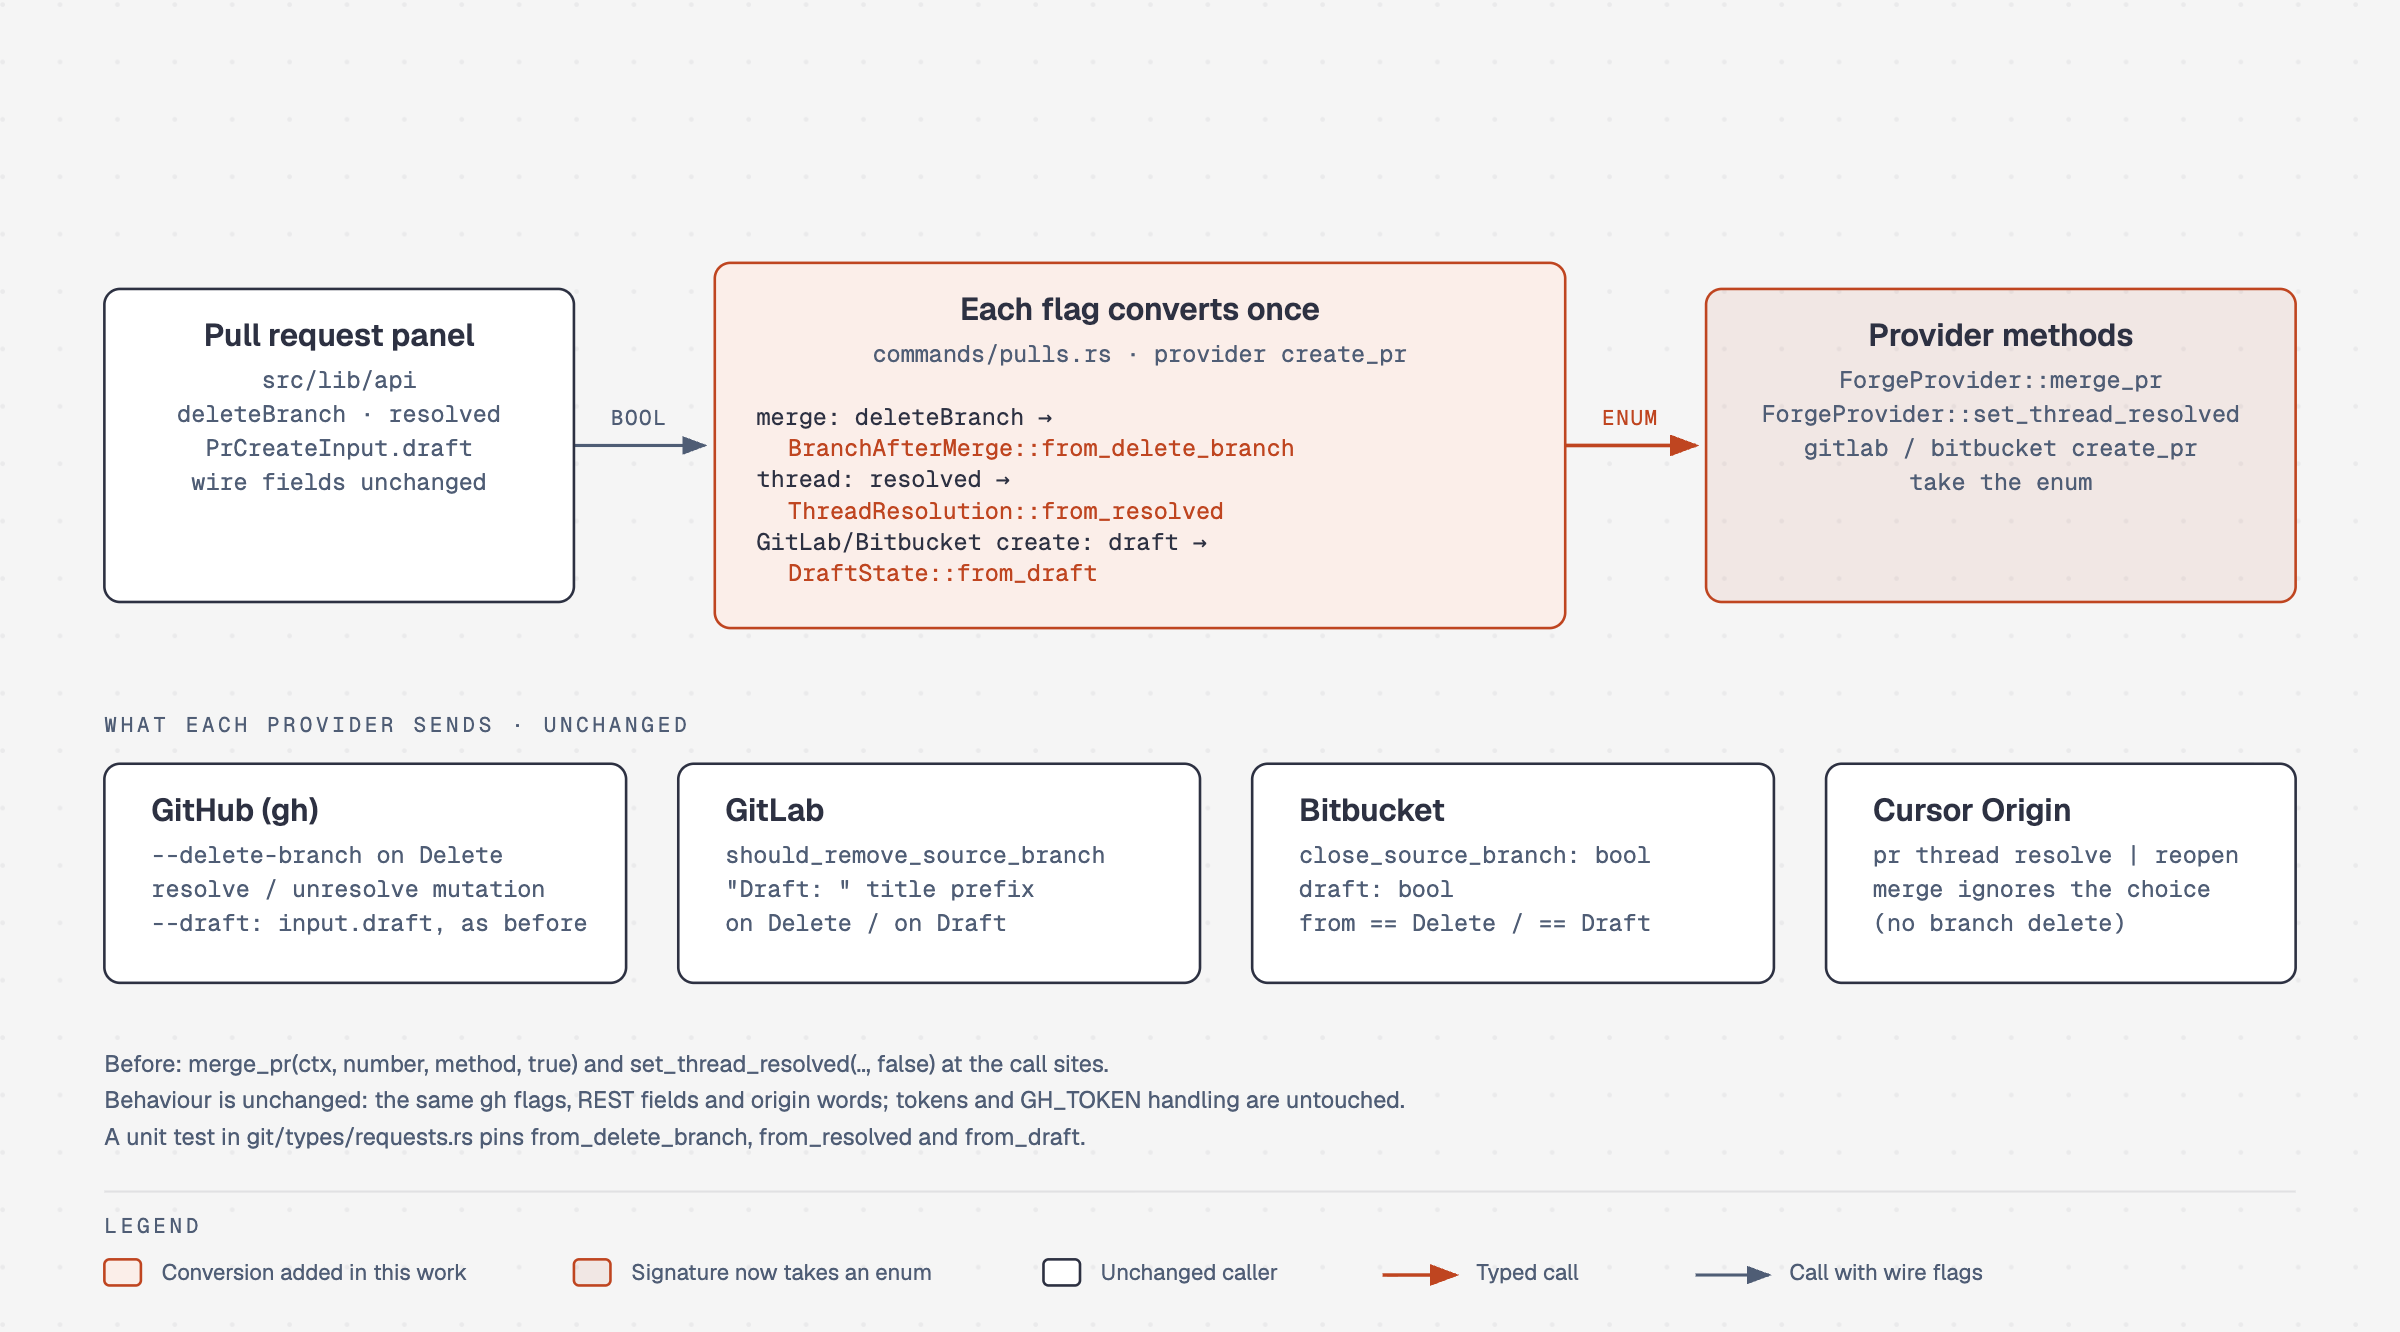
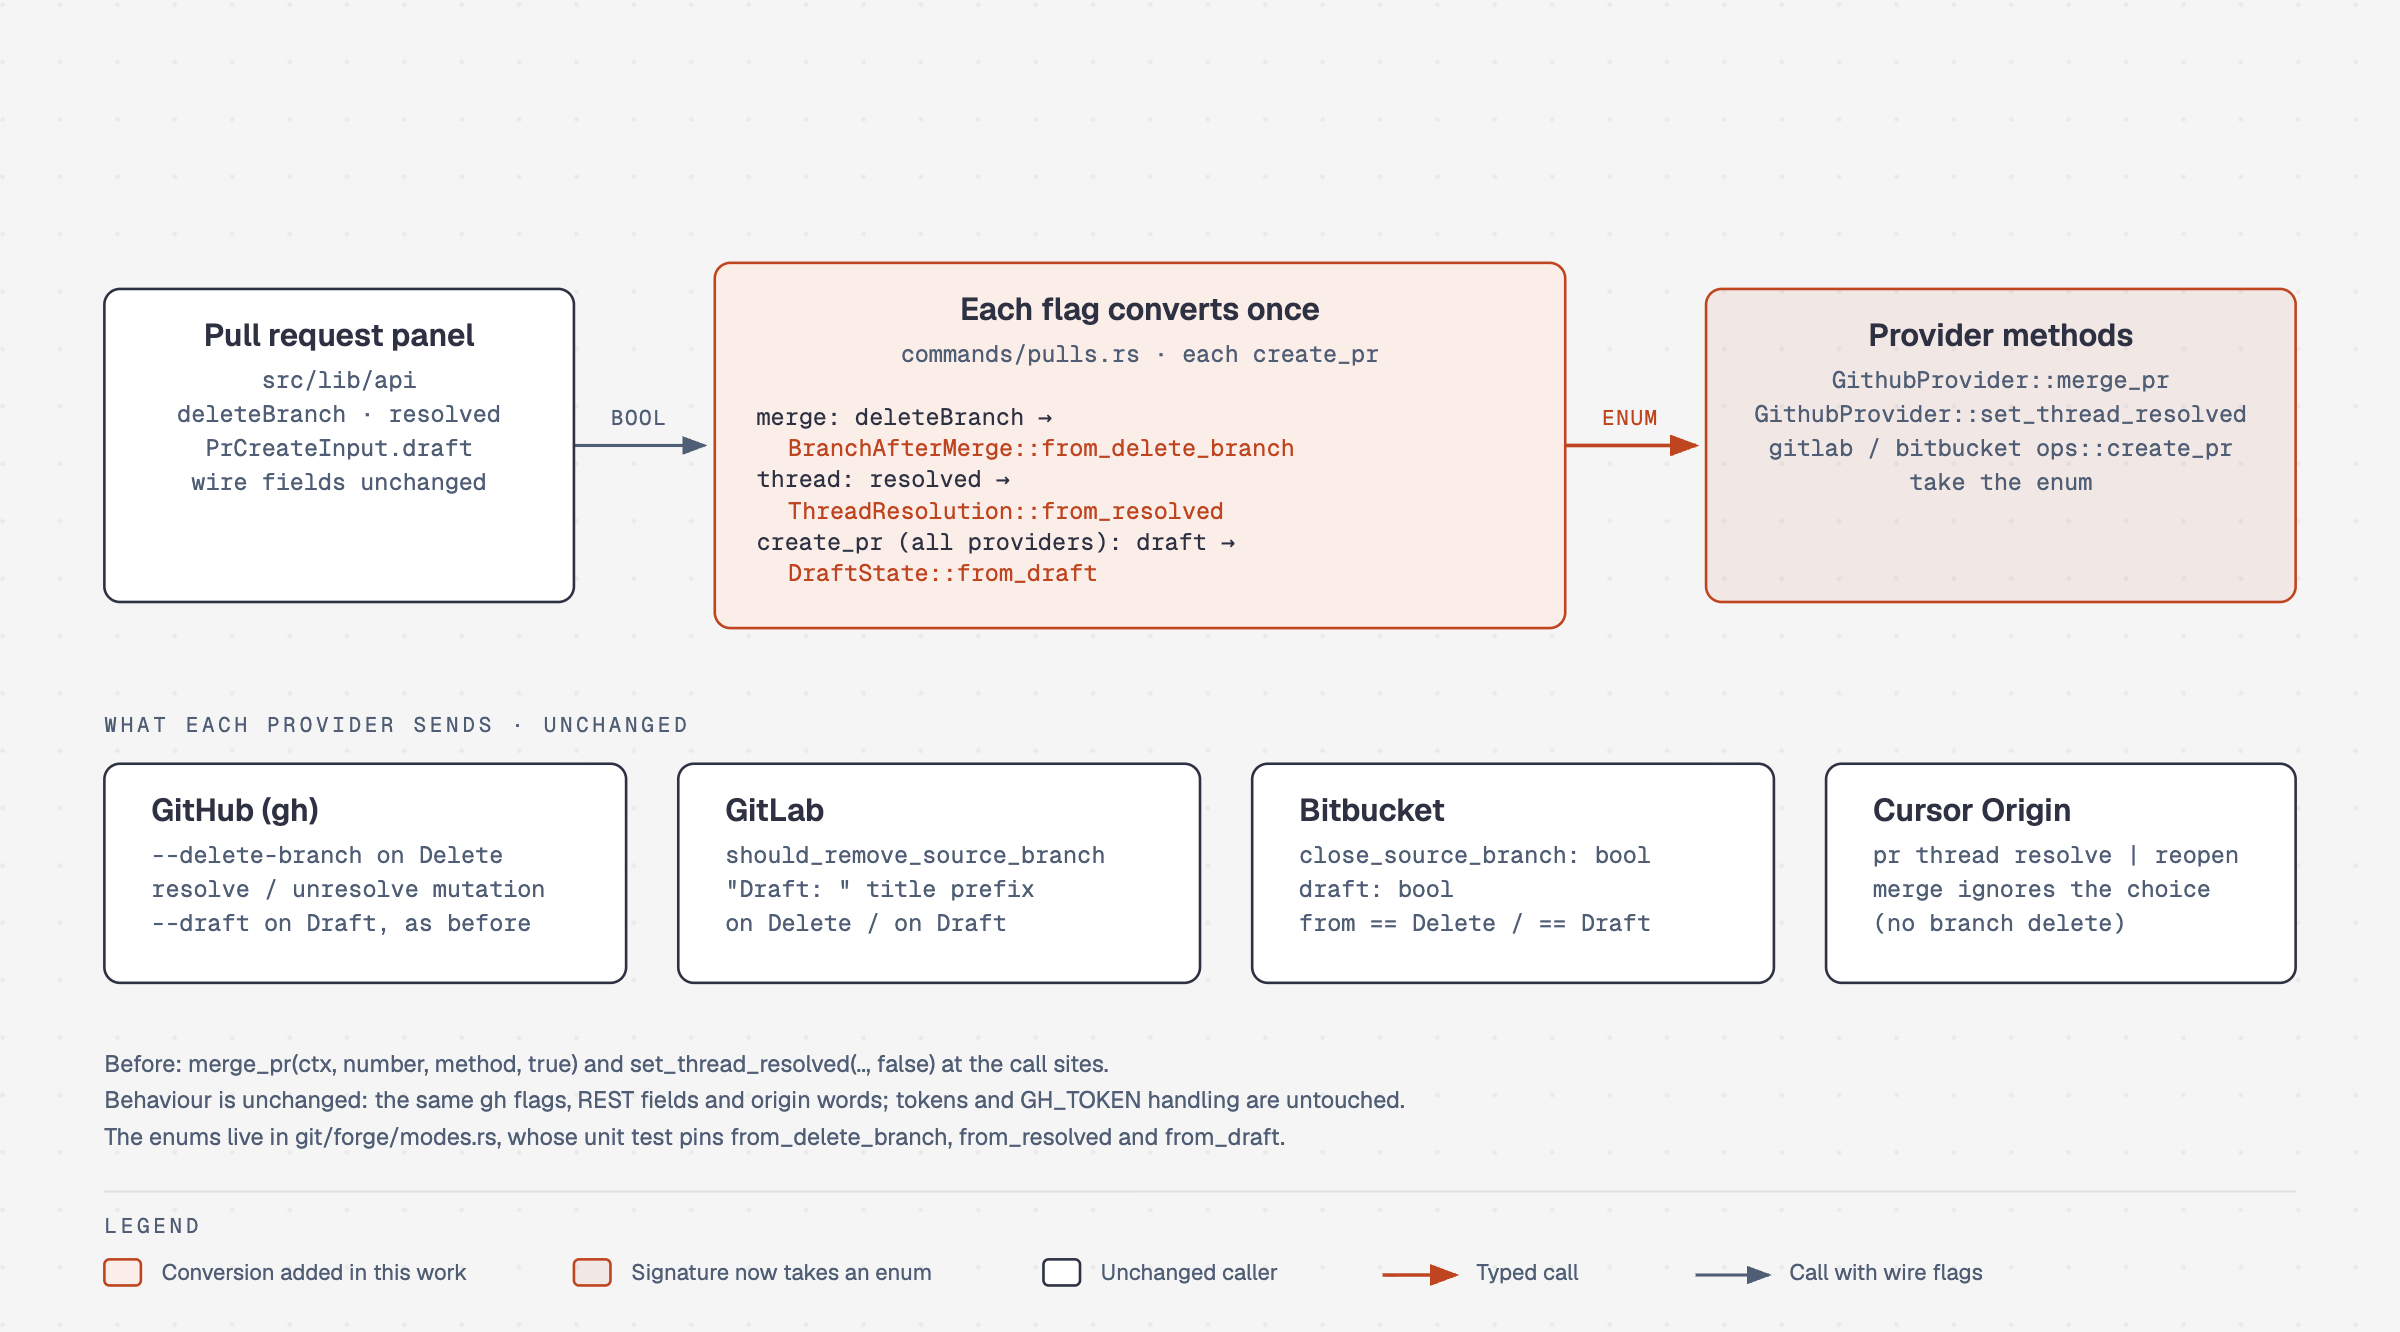
docs(diagrams): Show the forge mode enums in git::forge

diff --git a/docs/diagrams/rust-bool-modes-forge/forge-flag-enums.html b/docs/diagrams/rust-bool-modes-forge/forge-flag-enums.html
@@ -61,7 +61,7 @@
     <div class="diagram-container">
       <svg viewBox="0 0 920 510" xmlns="http://www.w3.org/2000/svg" role="img" aria-labelledby="forge-flag-enums-title forge-flag-enums-desc">
         <title id="forge-flag-enums-title">How the forge providers get their modes</title>
-        <desc id="forge-flag-enums-desc">The pull request panel still sends deleteBranch, resolved and PrCreateInput.draft. The merge and thread commands convert deleteBranch into BranchAfterMerge and resolved into ThreadResolution, and the GitLab and Bitbucket create paths convert draft into DraftState. The provider methods take the enums. What each provider sends is unchanged: gh's --delete-branch and resolve or unresolve mutation, GitLab's should_remove_source_branch and Draft title prefix, Bitbucket's close_source_branch and draft fields, and Cursor Origin's resolve or reopen, whose merge ignores the branch choice.</desc>
+        <desc id="forge-flag-enums-desc">The pull request panel still sends deleteBranch, resolved and PrCreateInput.draft. The merge and thread commands convert deleteBranch into BranchAfterMerge and resolved into ThreadResolution, and every provider's create path converts draft into DraftState. The provider methods take the enums. What each provider sends is unchanged: gh's --delete-branch and resolve or unresolve mutation, GitLab's should_remove_source_branch and Draft title prefix, Bitbucket's close_source_branch and draft fields, and Cursor Origin's resolve or reopen, whose merge ignores the branch choice.</desc>
         <defs>
           <pattern id="dots" width="22" height="22" patternUnits="userSpaceOnUse">
             <circle cx="1" cy="1" r="0.9" fill="rgba(45,49,66,0.10)"/>
@@ -86,25 +86,25 @@
         <text x="130" y="187" fill="#4f5d75" font-size="9" font-family="'Geist Mono', monospace" text-anchor="middle">wire fields unchanged</text>
         <rect x="274" y="100" width="326" height="140" rx="6" fill="#fbeee9" stroke="#bf4520" stroke-width="1"/>
         <text x="437" y="122" fill="#2d3142" font-size="12" font-weight="600" font-family="'Geist', sans-serif" text-anchor="middle">Each flag converts once</text>
-        <text x="437" y="138" fill="#4f5d75" font-size="9" font-family="'Geist Mono', monospace" text-anchor="middle">commands/pulls.rs · provider create_pr</text>
+        <text x="437" y="138" fill="#4f5d75" font-size="9" font-family="'Geist Mono', monospace" text-anchor="middle">commands/pulls.rs · each create_pr</text>
         <text x="290" y="162" fill="#2d3142" font-size="9" font-family="'Geist Mono', monospace">merge: deleteBranch →</text>
         <text x="302" y="174" fill="#bf4520" font-size="9" font-family="'Geist Mono', monospace">BranchAfterMerge::from_delete_branch</text>
         <text x="290" y="186" fill="#2d3142" font-size="9" font-family="'Geist Mono', monospace">thread: resolved →</text>
         <text x="302" y="198" fill="#bf4520" font-size="9" font-family="'Geist Mono', monospace">ThreadResolution::from_resolved</text>
-        <text x="290" y="210" fill="#2d3142" font-size="9" font-family="'Geist Mono', monospace">GitLab/Bitbucket create: draft →</text>
+        <text x="290" y="210" fill="#2d3142" font-size="9" font-family="'Geist Mono', monospace">create_pr (all providers): draft →</text>
         <text x="302" y="222" fill="#bf4520" font-size="9" font-family="'Geist Mono', monospace">DraftState::from_draft</text>
         <rect x="654" y="110" width="226" height="120" rx="6" fill="rgba(191,69,32,0.08)" stroke="#bf4520" stroke-width="1"/>
         <text x="767" y="132" fill="#2d3142" font-size="12" font-weight="600" font-family="'Geist', sans-serif" text-anchor="middle">Provider methods</text>
-        <text x="767" y="148" fill="#4f5d75" font-size="9" font-family="'Geist Mono', monospace" text-anchor="middle">ForgeProvider::merge_pr</text>
-        <text x="767" y="161" fill="#4f5d75" font-size="9" font-family="'Geist Mono', monospace" text-anchor="middle">ForgeProvider::set_thread_resolved</text>
-        <text x="767" y="174" fill="#4f5d75" font-size="9" font-family="'Geist Mono', monospace" text-anchor="middle">gitlab / bitbucket create_pr</text>
+        <text x="767" y="148" fill="#4f5d75" font-size="9" font-family="'Geist Mono', monospace" text-anchor="middle">GithubProvider::merge_pr</text>
+        <text x="767" y="161" fill="#4f5d75" font-size="9" font-family="'Geist Mono', monospace" text-anchor="middle">GithubProvider::set_thread_resolved</text>
+        <text x="767" y="174" fill="#4f5d75" font-size="9" font-family="'Geist Mono', monospace" text-anchor="middle">gitlab / bitbucket ops::create_pr</text>
         <text x="767" y="187" fill="#4f5d75" font-size="9" font-family="'Geist Mono', monospace" text-anchor="middle">take the enum</text>
         <text x="40" y="280" fill="#4f5d75" font-size="8" font-family="'Geist Mono', monospace" letter-spacing="0.18em">WHAT EACH PROVIDER SENDS · UNCHANGED</text>
         <rect x="40" y="292" width="200" height="84" rx="6" fill="#ffffff" stroke="#2d3142" stroke-width="1"/>
         <text x="58" y="314" fill="#2d3142" font-size="12" font-weight="600" font-family="'Geist', sans-serif">GitHub (gh)</text>
         <text x="58" y="330" fill="#4f5d75" font-size="9" font-family="'Geist Mono', monospace">--delete-branch on Delete</text>
         <text x="58" y="343" fill="#4f5d75" font-size="9" font-family="'Geist Mono', monospace">resolve / unresolve mutation</text>
-        <text x="58" y="356" fill="#4f5d75" font-size="9" font-family="'Geist Mono', monospace">--draft: input.draft, as before</text>
+        <text x="58" y="356" fill="#4f5d75" font-size="9" font-family="'Geist Mono', monospace">--draft on Draft, as before</text>
         <rect x="260" y="292" width="200" height="84" rx="6" fill="#ffffff" stroke="#2d3142" stroke-width="1"/>
         <text x="278" y="314" fill="#2d3142" font-size="12" font-weight="600" font-family="'Geist', sans-serif">GitLab</text>
         <text x="278" y="330" fill="#4f5d75" font-size="9" font-family="'Geist Mono', monospace">should_remove_source_branch</text>
@@ -122,7 +122,7 @@
         <text x="718" y="356" fill="#4f5d75" font-size="9" font-family="'Geist Mono', monospace">(no branch delete)</text>
         <text x="40" y="410" fill="#4f5d75" font-size="9" font-family="'Geist', sans-serif">Before: merge_pr(ctx, number, method, true) and set_thread_resolved(.., false) at the call sites.</text>
         <text x="40" y="424" fill="#4f5d75" font-size="9" font-family="'Geist', sans-serif">Behaviour is unchanged: the same gh flags, REST fields and origin words; tokens and GH_TOKEN handling are untouched.</text>
-        <text x="40" y="438" fill="#4f5d75" font-size="9" font-family="'Geist', sans-serif">A unit test in git/types/requests.rs pins from_delete_branch, from_resolved and from_draft.</text>
+        <text x="40" y="438" fill="#4f5d75" font-size="9" font-family="'Geist', sans-serif">The enums live in git/forge/modes.rs, whose unit test pins from_delete_branch, from_resolved and from_draft.</text>
         <line x1="40" y1="456" x2="880" y2="456" stroke="rgba(45,49,66,0.10)" stroke-width="0.8"/>
         <text x="40" y="472" fill="#4f5d75" font-size="8" font-family="'Geist Mono', monospace" letter-spacing="0.18em">LEGEND</text>
         <rect x="40" y="482" width="14" height="10" rx="2" fill="#fbeee9" stroke="#bf4520" stroke-width="1"/>
